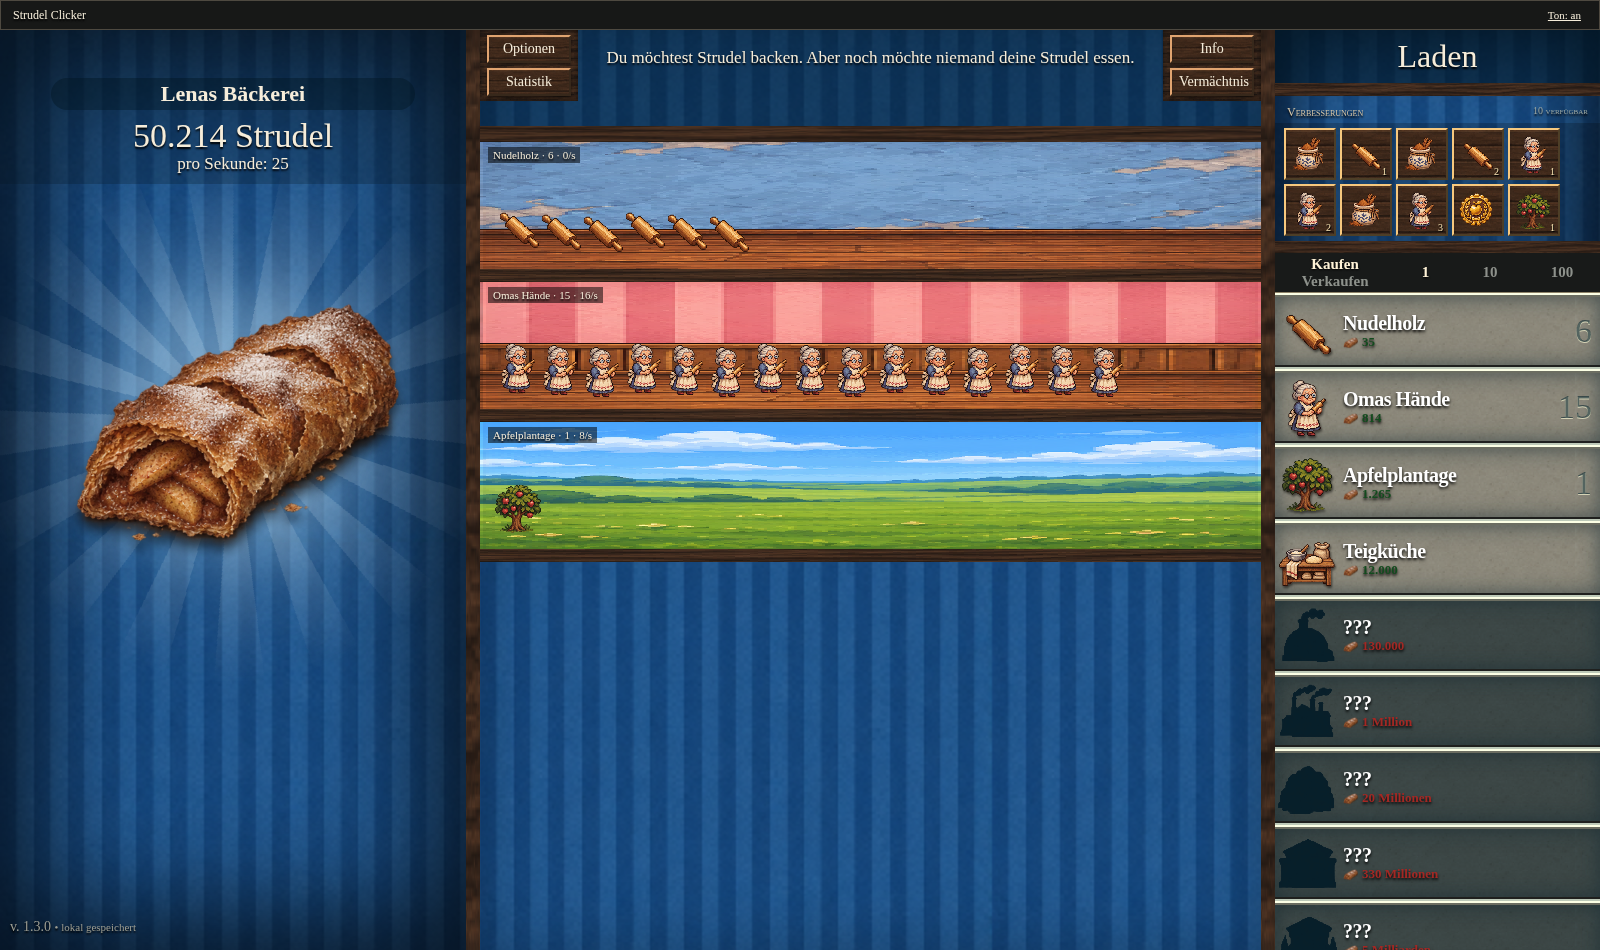
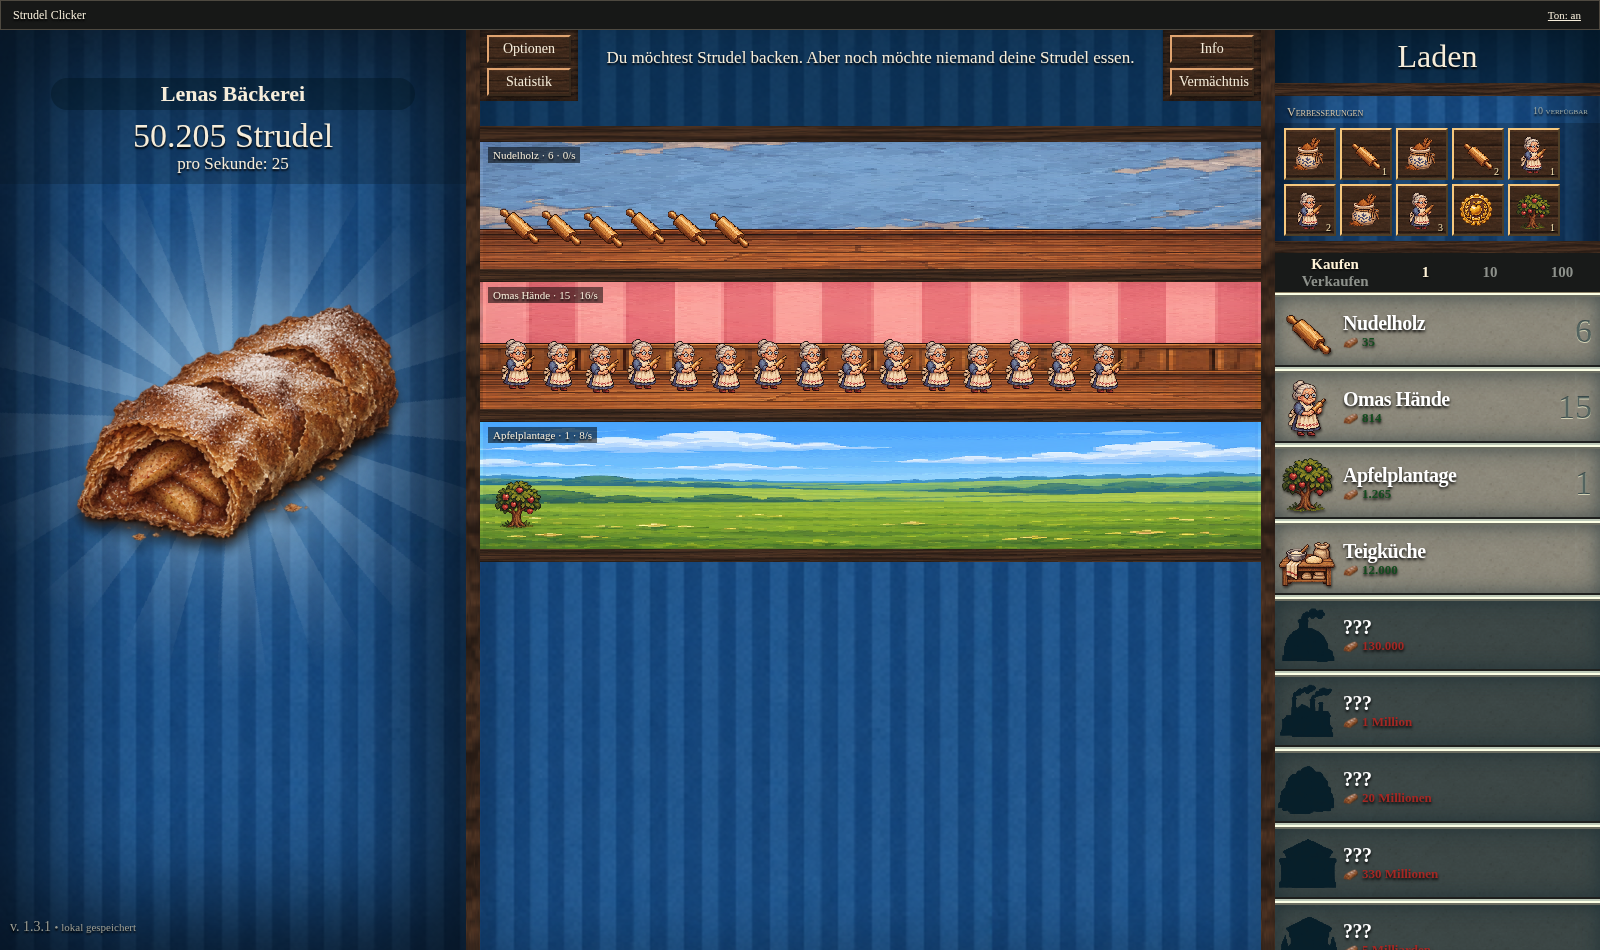
Cap building scenes at one visible row and remove inner scrolling

diff --git a/scenes.js b/scenes.js
@@ -37,37 +37,19 @@ export class SceneRenderer {
     const { body, track, building: b, count } = row;
     const step = 42,
       spriteWidth = 54,
-      spriteHeight = 68,
-      rowStep = 54;
-    const columns = Math.max(
-      1,
+      spriteHeight = 68;
+    const capacity = Math.max(
+      0,
       Math.floor((body.clientWidth - 24 - spriteWidth) / step) + 1,
     );
-    const rows = Math.ceil(count / columns);
-    const baseY =
-      rows === 1 ? Math.max(28, body.clientHeight - spriteHeight - 8) : 28;
-    const height = Math.max(
-      body.clientHeight,
-      baseY + (rows - 1) * rowStep + spriteHeight + 8,
-    );
-    track.style.width = "100%";
-    track.style.height = height + "px";
-    // Wrap within the panel and virtualize only vertically offscreen rows.
-    const firstRow = Math.max(
-      0,
-      Math.floor((body.scrollTop - baseY - spriteHeight) / rowStep),
-    );
-    const lastRow = Math.min(
-      rows,
-      Math.ceil((body.scrollTop + body.clientHeight - baseY) / rowStep) + 1,
-    );
-    const first = firstRow * columns,
-      last = Math.min(count, lastRow * columns);
-    const signature = `${first}:${last}:${columns}:${baseY}:${this.seed}`;
+    const visible = Math.min(count, capacity);
+    const baseY = Math.max(0, body.clientHeight - spriteHeight - 12);
+    // One decorative row only. Ownership and production are never capped.
+    const signature = `${visible}:${baseY}:${this.seed}`;
     if (row.signature === signature) return;
     row.signature = signature;
     track.replaceChildren();
-    for (let i = first; i < last; i++) {
+    for (let i = 0; i < visible; i++) {
       const image = document.createElement("img");
       image.src = `assets/${b.art}.png`;
       image.alt = `${b.name} ${i + 1}`;
@@ -80,8 +62,8 @@ export class SceneRenderer {
         image.alt = `${profile.name}, ${profile.age}`;
       }
       image.draggable = false;
-      image.style.left = `${12 + (i % columns) * step}px`;
-      image.style.top = `${baseY + Math.floor(i / columns) * rowStep + (i % 3) * 2}px`;
+      image.style.left = `${12 + i * step}px`;
+      image.style.top = `${baseY + (i % 3) * 2}px`;
       track.append(image);
     }
   }
@@ -109,20 +91,14 @@ export class SceneRenderer {
         label.className = "scene-label";
         const body = document.createElement("div");
         body.className = "scene-objects";
-        body.tabIndex = 0;
-        body.setAttribute(
-          "aria-label",
-          `${b.name} collection; scroll to see more`,
-        );
+        body.setAttribute("role", "group");
+        body.setAttribute("aria-label", `${b.name} collection`);
         const track = document.createElement("div");
         track.className = "scene-track";
         body.append(track);
         el.append(label, body);
         row = { el, label, body, track, building: b, count, signature: "" };
         this.rows.set(b.id, row);
-        body.addEventListener("scroll", () => this.drawUnits(row), {
-          passive: true,
-        });
         const art = artwork.get(b.id);
         if (!art.loaded) {
           el.classList.add("scene-pending");
@@ -134,15 +110,10 @@ export class SceneRenderer {
         container.insertBefore(el, next || null);
         this.observer.observe(body);
       }
-      const purchased = count > row.count;
       row.count = count;
       row.el.dataset.owned = count;
       row.label.textContent = `${b.name} · ${count} · ${this.format(game.buildingCps(b.id))}/s`;
       this.drawUnits(row);
-      if (purchased && row.body.scrollHeight > row.body.clientHeight) {
-        row.body.scrollTop = row.body.scrollHeight;
-        this.drawUnits(row);
-      }
     }
   }
 }

diff --git a/ui.js b/ui.js
@@ -435,7 +435,7 @@ function showPage(name) {
   if (name === "info") {
     p.innerHTML =
       pageHeader("About") +
-      "<h3>Strudel Clicker</h3><p>Begin with a single apple strudel. Click to bake, buy helpful hands, and let your ovens do the work. The store reveals each building when you have baked enough to discover it.</p><p>Buy buildings in batches of 1, 10, or 100. Each costs 15% more than the last. Selling returns 25% of the current purchase value. Recipes appear as you reach building and clicking milestones.</p><p>Catch the winged golden strudel for a lucky delivery, 12 seconds of ×7 production, or 13 seconds of ×77 clicking. Your next lucky strudel arrives in roughly 1–3 minutes.</p><p>At one billion lifetime strudels, Legacy becomes available. Ascension trades your current bakery for Vienna Points and permanent recipes. You keep achievements, settings, and all-time statistics.</p><p>An independent browser game inspired by the classic idle genre. Original generated game art. No affiliation with Cookie Clicker or its creators.</p><p>Version 1.3.0</p>";
+      "<h3>Strudel Clicker</h3><p>Begin with a single apple strudel. Click to bake, buy helpful hands, and let your ovens do the work. The store reveals each building when you have baked enough to discover it.</p><p>Buy buildings in batches of 1, 10, or 100. Each costs 15% more than the last. Selling returns 25% of the current purchase value. Recipes appear as you reach building and clicking milestones.</p><p>Catch the winged golden strudel for a lucky delivery, 12 seconds of ×7 production, or 13 seconds of ×77 clicking. Your next lucky strudel arrives in roughly 1–3 minutes.</p><p>At one billion lifetime strudels, Legacy becomes available. Ascension trades your current bakery for Vienna Points and permanent recipes. You keep achievements, settings, and all-time statistics.</p><p>An independent browser game inspired by the classic idle genre. Original generated game art. No affiliation with Cookie Clicker or its creators.</p><p>Version 1.3.1</p>";
   }
   if (name === "legacy") renderLegacy();
   $("#close-page").onclick = () => showPage("bakery");

diff --git a/style.css b/style.css
@@ -929,10 +929,7 @@ dialog div {
   display: block;
   padding: 0;
   height: 100%;
-  overflow-x: auto;
-  overflow-y: hidden;
-  scrollbar-width: thin;
-  scrollbar-color: #826445 #29241f;
+  overflow: hidden;
 }
 .scene-track {
   position: relative;
@@ -951,7 +948,7 @@ dialog div {
 .store {
   background-size: 512px;
 }
-/* A broader, soft burst and a single composited orbit around the main pastry. */
+/* A broader, soft burst behind the main pastry. */
 .rays {
   width: 540px;
   height: 540px;
@@ -1055,12 +1052,12 @@ html[lang="de"] .menu-buttons button {
   text-overflow: ellipsis;
 }
 .scene-objects {
-  overflow-x: hidden;
-  overflow-y: auto;
-  overscroll-behavior: contain;
+  overflow: hidden;
 }
 .scene-track {
   min-width: 0;
+  width: 100%;
+  height: 100%;
 }
 .scene-objects .scene-unit {
   bottom: auto;

diff --git a/index.html b/index.html
@@ -40,7 +40,7 @@
         </div>
         <div id="buffs"></div>
         <div class="bakery-footer">
-          <small>v. 1.3.0 <span id="save-status">• saved locally</span></small>
+          <small>v. 1.3.1 <span id="save-status">• saved locally</span></small>
         </div>
       </section>
       <section class="middle" aria-label="Bakery management">

diff --git a/README.md b/README.md
@@ -26,12 +26,12 @@ The server listens on `0.0.0.0` and uses `PORT`, defaulting to `3000`. Open your
 - Statistics, renameable bakery, rotating news, Options and Info pages, named/scientific numbers, autosave every 60 seconds and on page exit, save/load/export/import, and up to 24 hours of offline production.
 - First-run name and English/German language selection, localized menus and tooltips, named bakeries, and persistent language preferences.
 - Grandma sprites have stable names and ages from 81 to 120, shown on hover or keyboard focus.
-- Rolling pins appear one-per-purchase in their own scene row; the main pastry retains its larger light burst.
+- Rolling pins appear in their own single scene row; the main pastry retains its larger light burst.
 - All resource displays round down to whole numbers. Fractional production accumulates separately until a whole strudel is baked. The full integer bank counter updates every animation frame; the store and other expensive UI updates remain throttled. Very high production can exceed the display refresh rate.
 - Golden strudels drift and flee nearby mouse movement while staying within the window. Keyboard users can focus and catch them; touch users can tap them.
 - Options → Delete all progress opens an irreversible-reset confirmation, then clears this origin’s local/session storage, caches, enumerable IndexedDB databases, service workers and script-accessible cookies. Autosave is stopped during deletion, and other open game tabs reset too. This does **not** erase browser browsing history, browser-saved form history or HttpOnly cookies.
 - Responsive stacked phone layout and reduced-motion support.
-- Original image-generated assets. The main strudel keeps its semi-realistic finish; store, upgrade, achievement, and scene icons use detailed pixel artwork. Scene backgrounds are distinct empty environments, with one separate sprite per owned building. Backgrounds and sprites are preloaded, and large collections wrap within the panel and scroll vertically without the old 14-object cap. Store rows reserve separate space for icons, names and counts, and tooltips stay within the viewport.
+- Original image-generated assets. The main strudel keeps its semi-realistic finish; store, upgrade, achievement, and scene icons use detailed pixel artwork. Scene backgrounds are distinct empty environments, with one sprite per purchase until the single visible row is full. Further purchases still count and produce normally, without drawing extra rows. Backgrounds and sprites are preloaded, and each scene automatically caps visible sprites to the space available in one row. There are no per-scene scrollbars; the main management panel scrolls through the building strips. Store rows reserve separate space for icons, names and counts, and tooltips stay within the viewport.
 
 ## Deploy to the existing Render web service
 
@@ -66,7 +66,7 @@ PLAYWRIGHT_MODULE=/path/to/playwright node tests/features.browser.cjs
 PLAYWRIGHT_MODULE=/path/to/playwright node tests/reset-layout.browser.cjs
 ```
 
-It exercises click/buy/sell, upgrades, save/reload, export/import, late-game ascension and permanent upgrades using a valid imported fixture, lucky spawning/catching and autosave using browser time control, image/HTTP/console checks, phone overflow, one-per-purchase scene counts beyond the former cap, and cold-load artwork/trim synchronization. The feature suite also covers both onboarding languages, persistent profiles, grandma identity, upgrade ordering, rolling-pin scene rendering, individual counter steps, integer displays, and the 12-second buff expiry. The reset/layout suite checks panel boundaries at 390, 800, 1000 and 1600 pixels, mouse evasion, keyboard catching, reset cancellation, full site-storage cleanup and reset propagation to another open tab. Screenshots are written to ignored `test-results/`. Late-game browser checks use seeded saves rather than claiming a multi-day balance playthrough. Chromium was tested; Safari/Firefox and physical-device audio have not been tested.
+It exercises click/buy/sell, upgrades, save/reload, export/import, late-game ascension and permanent upgrades using a valid imported fixture, lucky spawning/catching and autosave using browser time control, image/HTTP/console checks, phone overflow, scene ownership counts independent of visible sprites, and cold-load artwork/trim synchronization. The feature suite also covers both onboarding languages, persistent profiles, grandma identity, upgrade ordering, rolling-pin scene rendering, individual counter steps, integer displays, and the 12-second buff expiry. The reset/layout suite checks panel boundaries and single-row limits at 390, 800, 1000 and 1600 pixels, outer-panel scrolling, purchases after visual saturation, mouse evasion, keyboard catching, reset cancellation, full site-storage cleanup and reset propagation to another open tab. Screenshots are written to ignored `test-results/`. Late-game browser checks use seeded saves rather than claiming a multi-day balance playthrough. Chromium was tested; Safari/Firefox and physical-device audio have not been tested.
 
 ## Files
 
